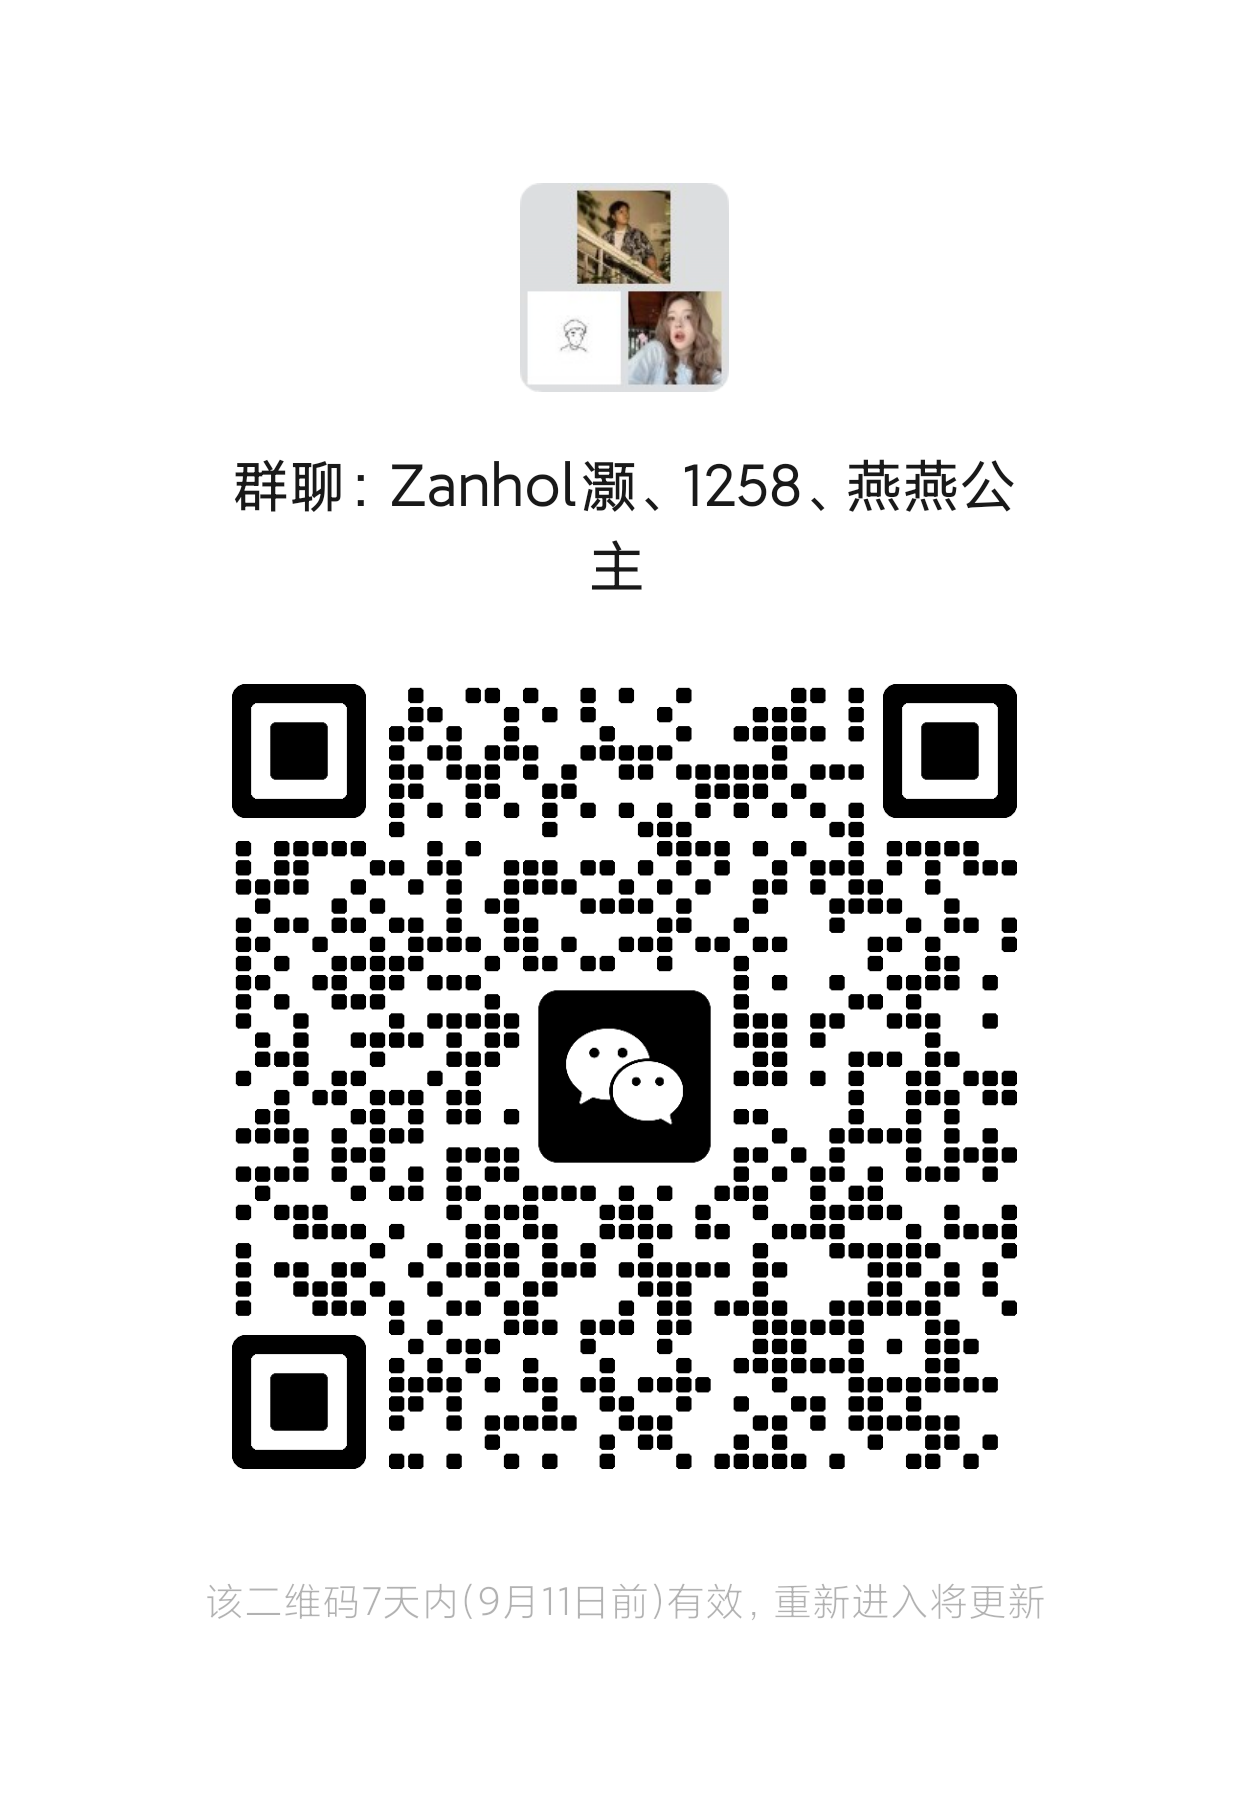
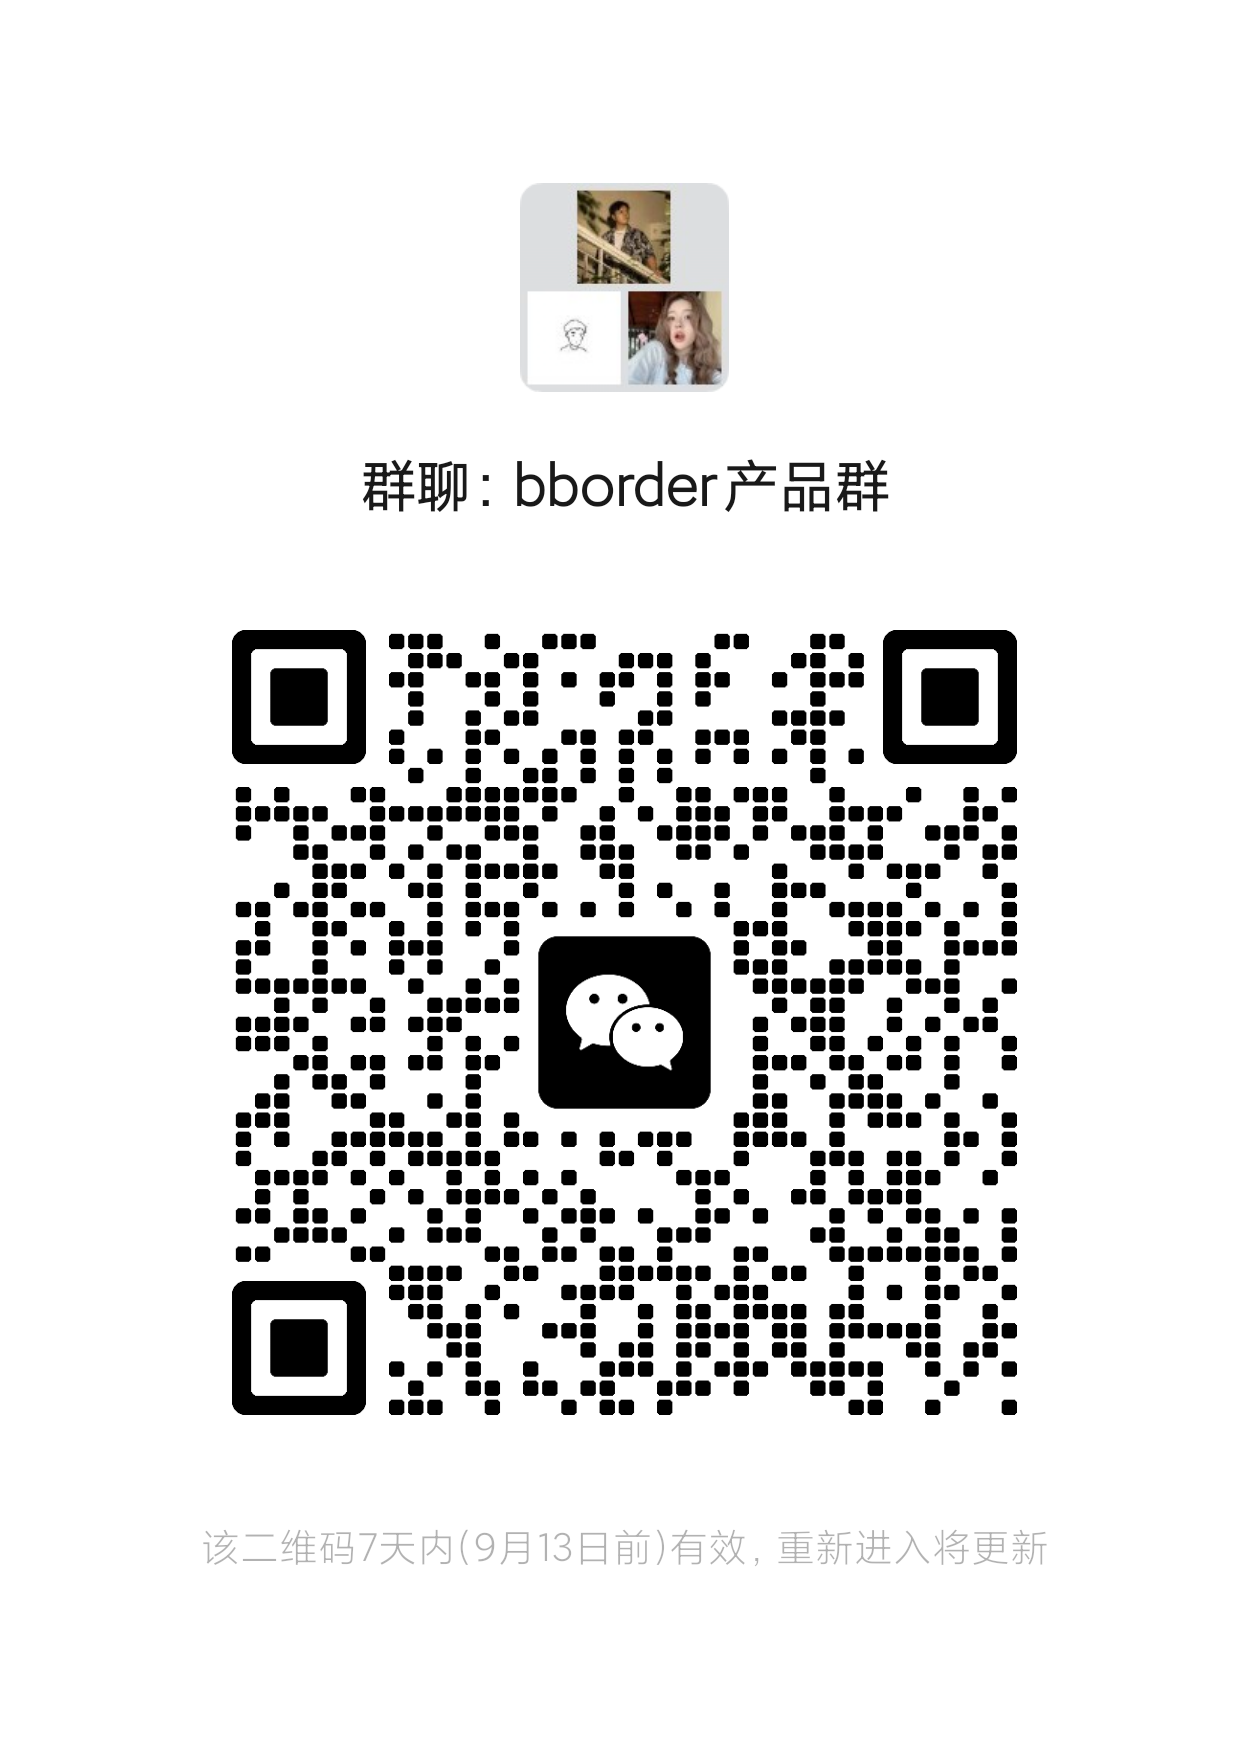
docs: 更新群二维码 + 发布计划（预览版本月开源/regular本月测试/pro开发中/前20免费部署/10月开售）

diff --git a/README.md b/README.md
@@ -95,3 +95,11 @@ docker compose -f docker/compose.yml up -d --build
 Copyright © 2026 深圳市甜梦屋科技有限公司（Shenzhen Tianmengwu Technology Co., Ltd.）
 
 本项目按 **Apache License 2.0** 开源，详见 [`LICENSE`](./LICENSE)。源码仅供学习与合规使用，使用时须保留本版权声明。
+
+## 发布计划
+
+- **预览版**：本月开源（当前仓库）
+- **regular（标准版）**：预计本月开放测试使用
+- **pro 版**：尚在开发中
+- **前 20 名进群**可享免费部署（需自备主机或服务器，可帮忙配置）
+- **regular / pro 版**将于 10 月和大家见面并小偿开售，目前正在基于开发成本和项目成本核算中
